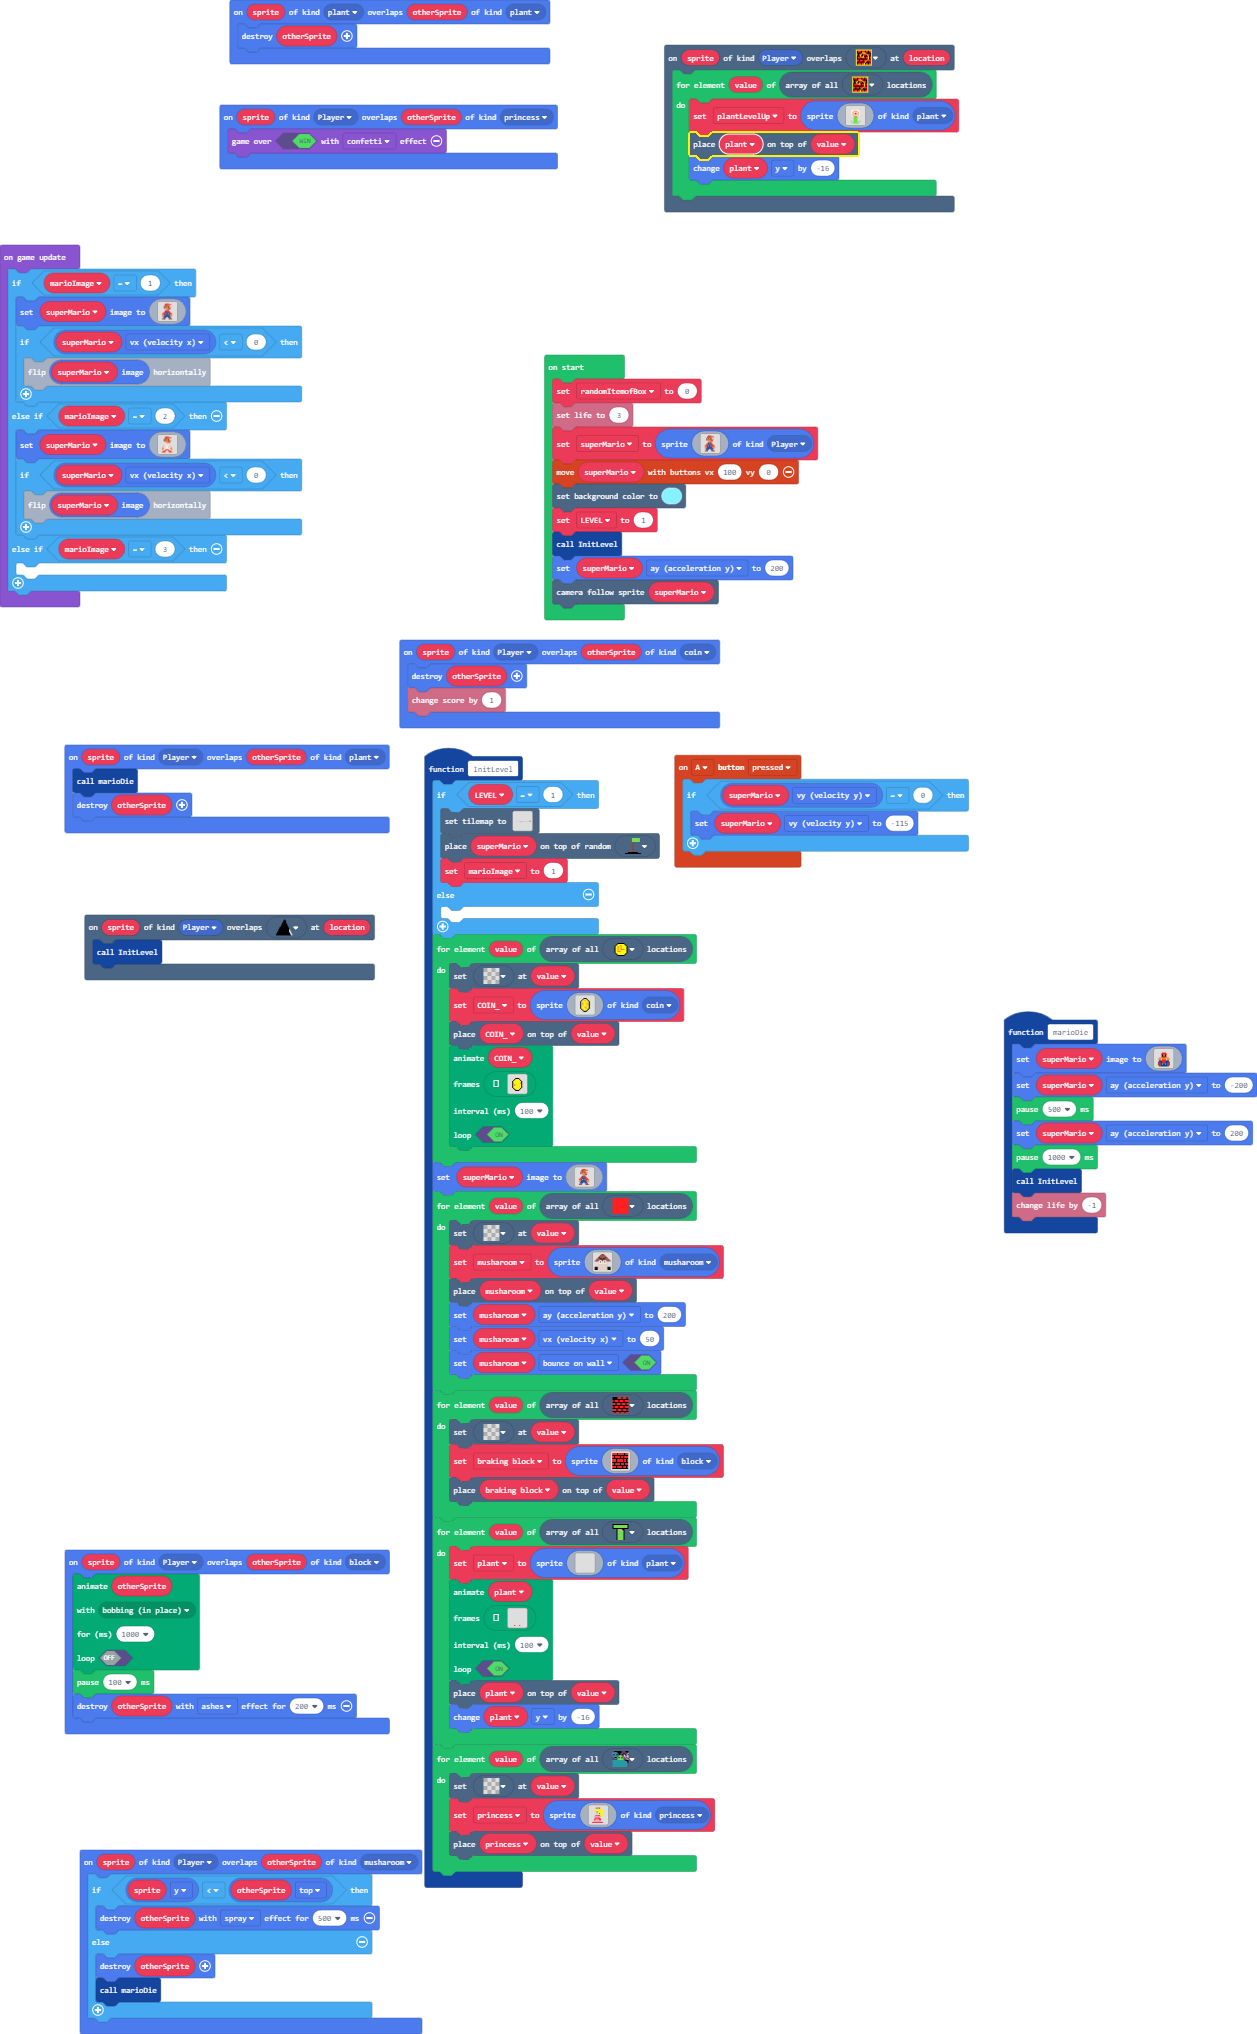
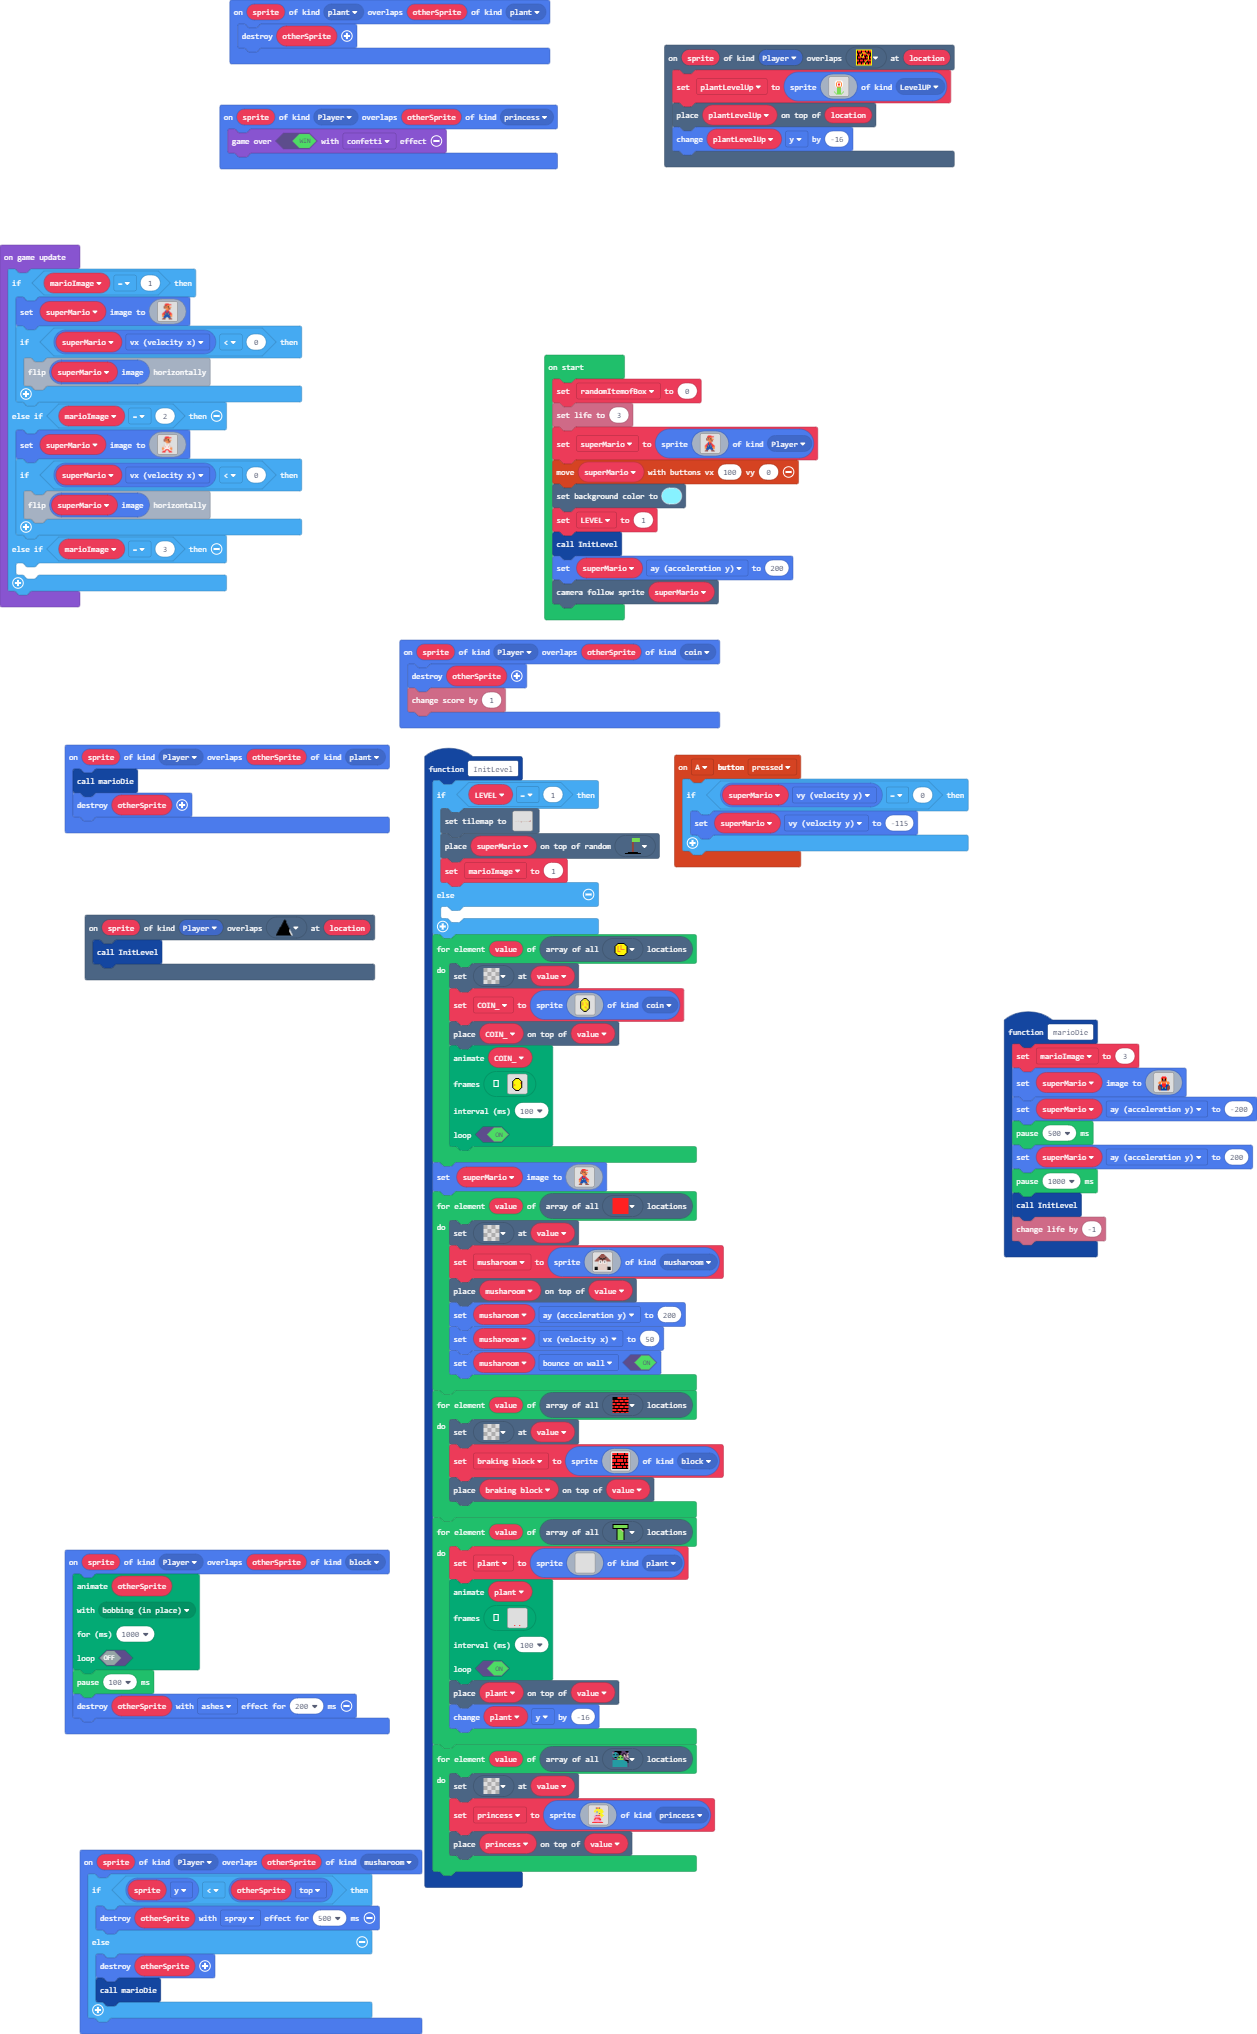
started more plant bonuses and characteristics

Changed region(s): [[0.5274, 0.031, 0.7757, 0.1239], [0.7757, 0.4956, 1.0, 0.6195]]

diff --git a/main.ts b/main.ts
@@ -6,6 +6,7 @@ namespace SpriteKind {
     export const box = SpriteKind.create()
     export const star = SpriteKind.create()
     export const princess = SpriteKind.create()
+    export const LevelUP = SpriteKind.create()
 }
 namespace myTiles {
     //% blockIdentity=images._tile
@@ -184,6 +185,7 @@ sprites.onOverlap(SpriteKind.plant, SpriteKind.plant, function (sprite, otherSpr
     otherSprite.destroy()
 })
 function marioDie () {
+    marioImage = 3
     superMario.setImage(img`
 . . . . . . . . . . . . . . . . 
 . . . . . . . . . . . . . . . . 
@@ -229,8 +231,7 @@ sprites.onOverlap(SpriteKind.Player, SpriteKind.block, function (sprite, otherSp
     otherSprite.destroy(effects.ashes, 200)
 })
 scene.onOverlapTile(SpriteKind.Player, myTiles.tile8, function (sprite, location) {
-    for (let value of tiles.getTilesByType(myTiles.tile8)) {
-        plantLevelUp = sprites.create(img`
+    plantLevelUp = sprites.create(img`
 . . . . . . . . . . . . . . . . 
 . . . . . . . . . . . . . . . . 
 . . . . . 1 1 1 1 1 1 . . . . . 
@@ -247,10 +248,9 @@ scene.onOverlapTile(SpriteKind.Player, myTiles.tile8, function (sprite, location
 . . . 7 . . 7 7 7 7 . . 7 . . . 
 . . . . 7 . 7 7 7 7 . 7 . . . . 
 . . . . . 7 7 7 7 7 7 . . . . . 
-`, SpriteKind.plant)
-        tiles.placeOnTile(plant, value)
-        plant.y += -16
-    }
+`, SpriteKind.LevelUP)
+    tiles.placeOnTile(plantLevelUp, location)
+    plantLevelUp.y += -16
 })
 sprites.onOverlap(SpriteKind.Player, SpriteKind.musharoom, function (sprite, otherSprite) {
     if (sprite.y < otherSprite.top) {
@@ -1390,12 +1390,12 @@ sprites.onOverlap(SpriteKind.Player, SpriteKind.plant, function (sprite, otherSp
     otherSprite.destroy()
 })
 let princess: Sprite = null
+let plant: Sprite = null
 let braking_block: Sprite = null
 let musharoom: Sprite = null
 let COIN_: Sprite = null
-let marioImage = 0
-let plant: Sprite = null
 let plantLevelUp: Sprite = null
+let marioImage = 0
 let LEVEL = 0
 let superMario: Sprite = null
 let randomItemofBox = 0
